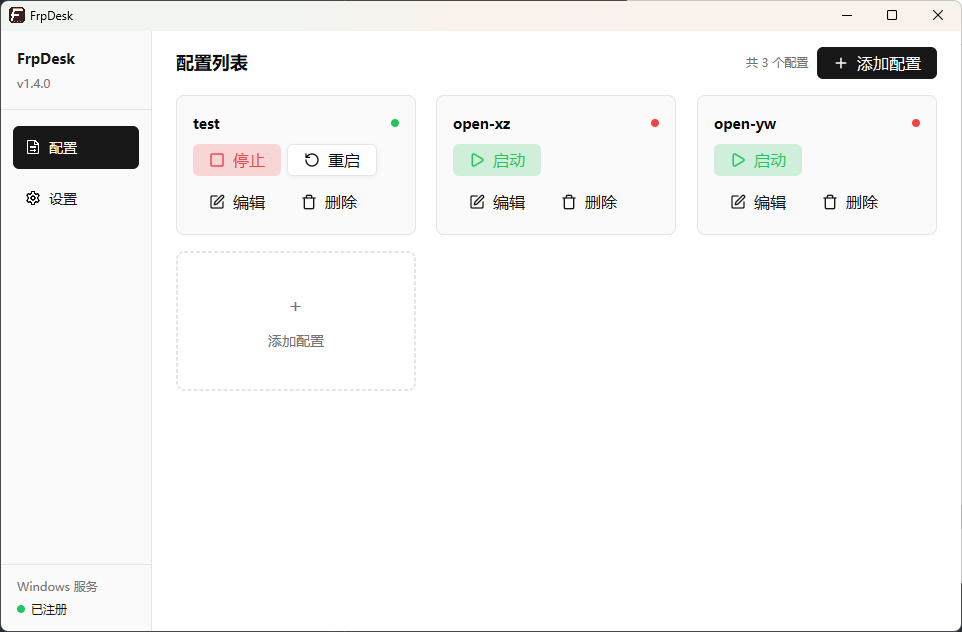
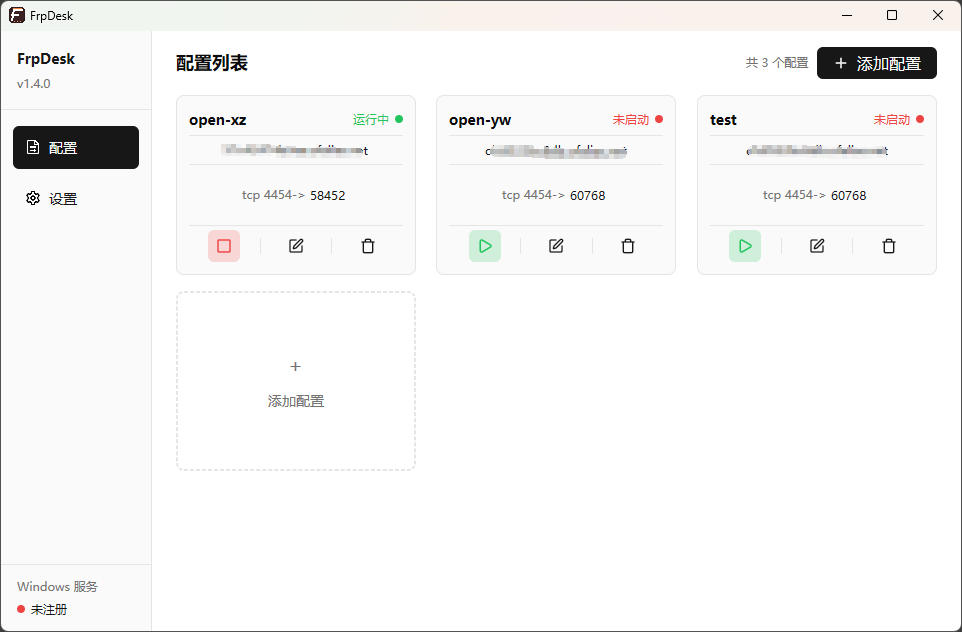
doc: update README.md

diff --git a/README.md b/README.md
@@ -5,17 +5,18 @@
 ## 功能特性
 
 - **多配置管理**：添加、编辑、删除多个 frpc 配置，每个配置独立运行
-- **进程生命周期管理**：启动、停止、重启单个 frpc 实例，实时显示运行状态
+- **进程生命周期管理**：启动、停止单个 frpc 实例，实时显示运行状态
 - **开机自启**：为每个配置单独设置开机自启动，配合 Windows 服务实现无人值守
-- **自动下载 frpc**：首次使用时自动从 GitHub 下载最新版本的 frpc，支持多个国内代理自动切换
+- **自动下载 frpc**：支持从 GitHub 下载最新版本的 frpc，支持多个国内代理自动切换
 - **版本更新检测**：检查 frpc 是否有新版本，一键更新
 - **Windows 服务注册**：将程序注册为 Windows 服务，实现开机自启已配置的 frpc 实例
 - **主题切换**：内置多套主题（亮色 / 暗色 / 海洋蓝 / 暖日落），支持一键切换并持久化
 - **日志管理**：按天自动分割日志，自动清理超过 30 天的旧日志，支持运行中删除日志文件后自动重建
+- **TOML 配置校验**：保存配置时自动校验 TOML 格式，提取 serverAddr、代理类型与端口信息
+- **一键复制**：配置卡片中的服务器地址和远程端口支持点击复制到剪贴板
 - **TOML 代码高亮**：配置编辑器支持 TOML 语法高亮显示
 - **进程守护**：开启后 frpc 进程异常退出时自动重启，支持 UI 模式和服务模式，通过共享文件协调
 - **健康检查**：后台周期性监控 frpc 进程状态，异常退出自动更新界面
-- **单实例运行**：程序只允许运行一个窗口实例
 
 ## 界面预览
 
@@ -40,8 +41,8 @@
 ### 配置管理
 
 - **添加配置**：点击配置列表中的虚线卡片，填写配置名称和 TOML 内容
-- **编辑配置**：点击配置卡片上的 **编辑** 按钮
-- **删除配置**：点击配置卡片上的 **删除** 按钮（会自动停止运行中的实例）
+- **编辑配置**：点击配置卡片上的编辑图标按钮
+- **删除配置**：点击配置卡片上的删除图标按钮（会自动停止运行中的实例）
 - **自启动**：在添加/编辑配置时设置开机自启动开关
 - **分页**：每页最多显示 8 个配置，超过后自动分页
 
@@ -79,10 +80,10 @@ src/
 ├── sidebar.rs              # 侧边栏导航菜单渲染
 ├── pages/
 │   ├── mod.rs              # 页面模块声明
-│   ├── config_list.rs      # 配置列表页面（卡片网格 + 分页）
+│   ├── config_list.rs      # 配置列表页面（卡片网格 + 分页 + 一键复制）
 │   ├── config_editor.rs    # 配置编辑器页面（名称 + TOML 编辑 + 自启动）
 │   └── settings.rs         # 设置页面（frpc 版本、服务、主题、进程守护、日志）
-├── config.rs               # 配置管理（conf/ 目录下的元数据和 TOML 文件）
+├── config.rs               # 配置管理（conf/ 目录下的元数据和 TOML 文件，TOML 校验）
 ├── frpc_mg.rs              # frpc 进程管理（启动、停止、状态监控）
 ├── service.rs              # Windows 服务管理（注册、注销、服务调度器）
 ├── download.rs             # frpc 下载模块（GitHub 代理、zip 解压、版本检查）
@@ -124,6 +125,7 @@ cargo build --release
 
 - [gpui](https://github.com/zed-industries/zed) — Zed 编辑器的 GPU 加速 UI 框架
 - [gpui-component](https://github.com/longbridge/gpui-component) — gpui 组件库（按钮、输入框、下拉列表、Spinner 等）
+- [toml](https://crates.io/crates/toml) — TOML 解析（配置校验与信息提取）
 - [windows-service](https://crates.io/crates/windows-service) — Windows 服务 API 绑定
 - [reqwest](https://crates.io/crates/reqwest) — HTTP 客户端（frpc 下载）
 - [zip](https://crates.io/crates/zip) — ZIP 解压